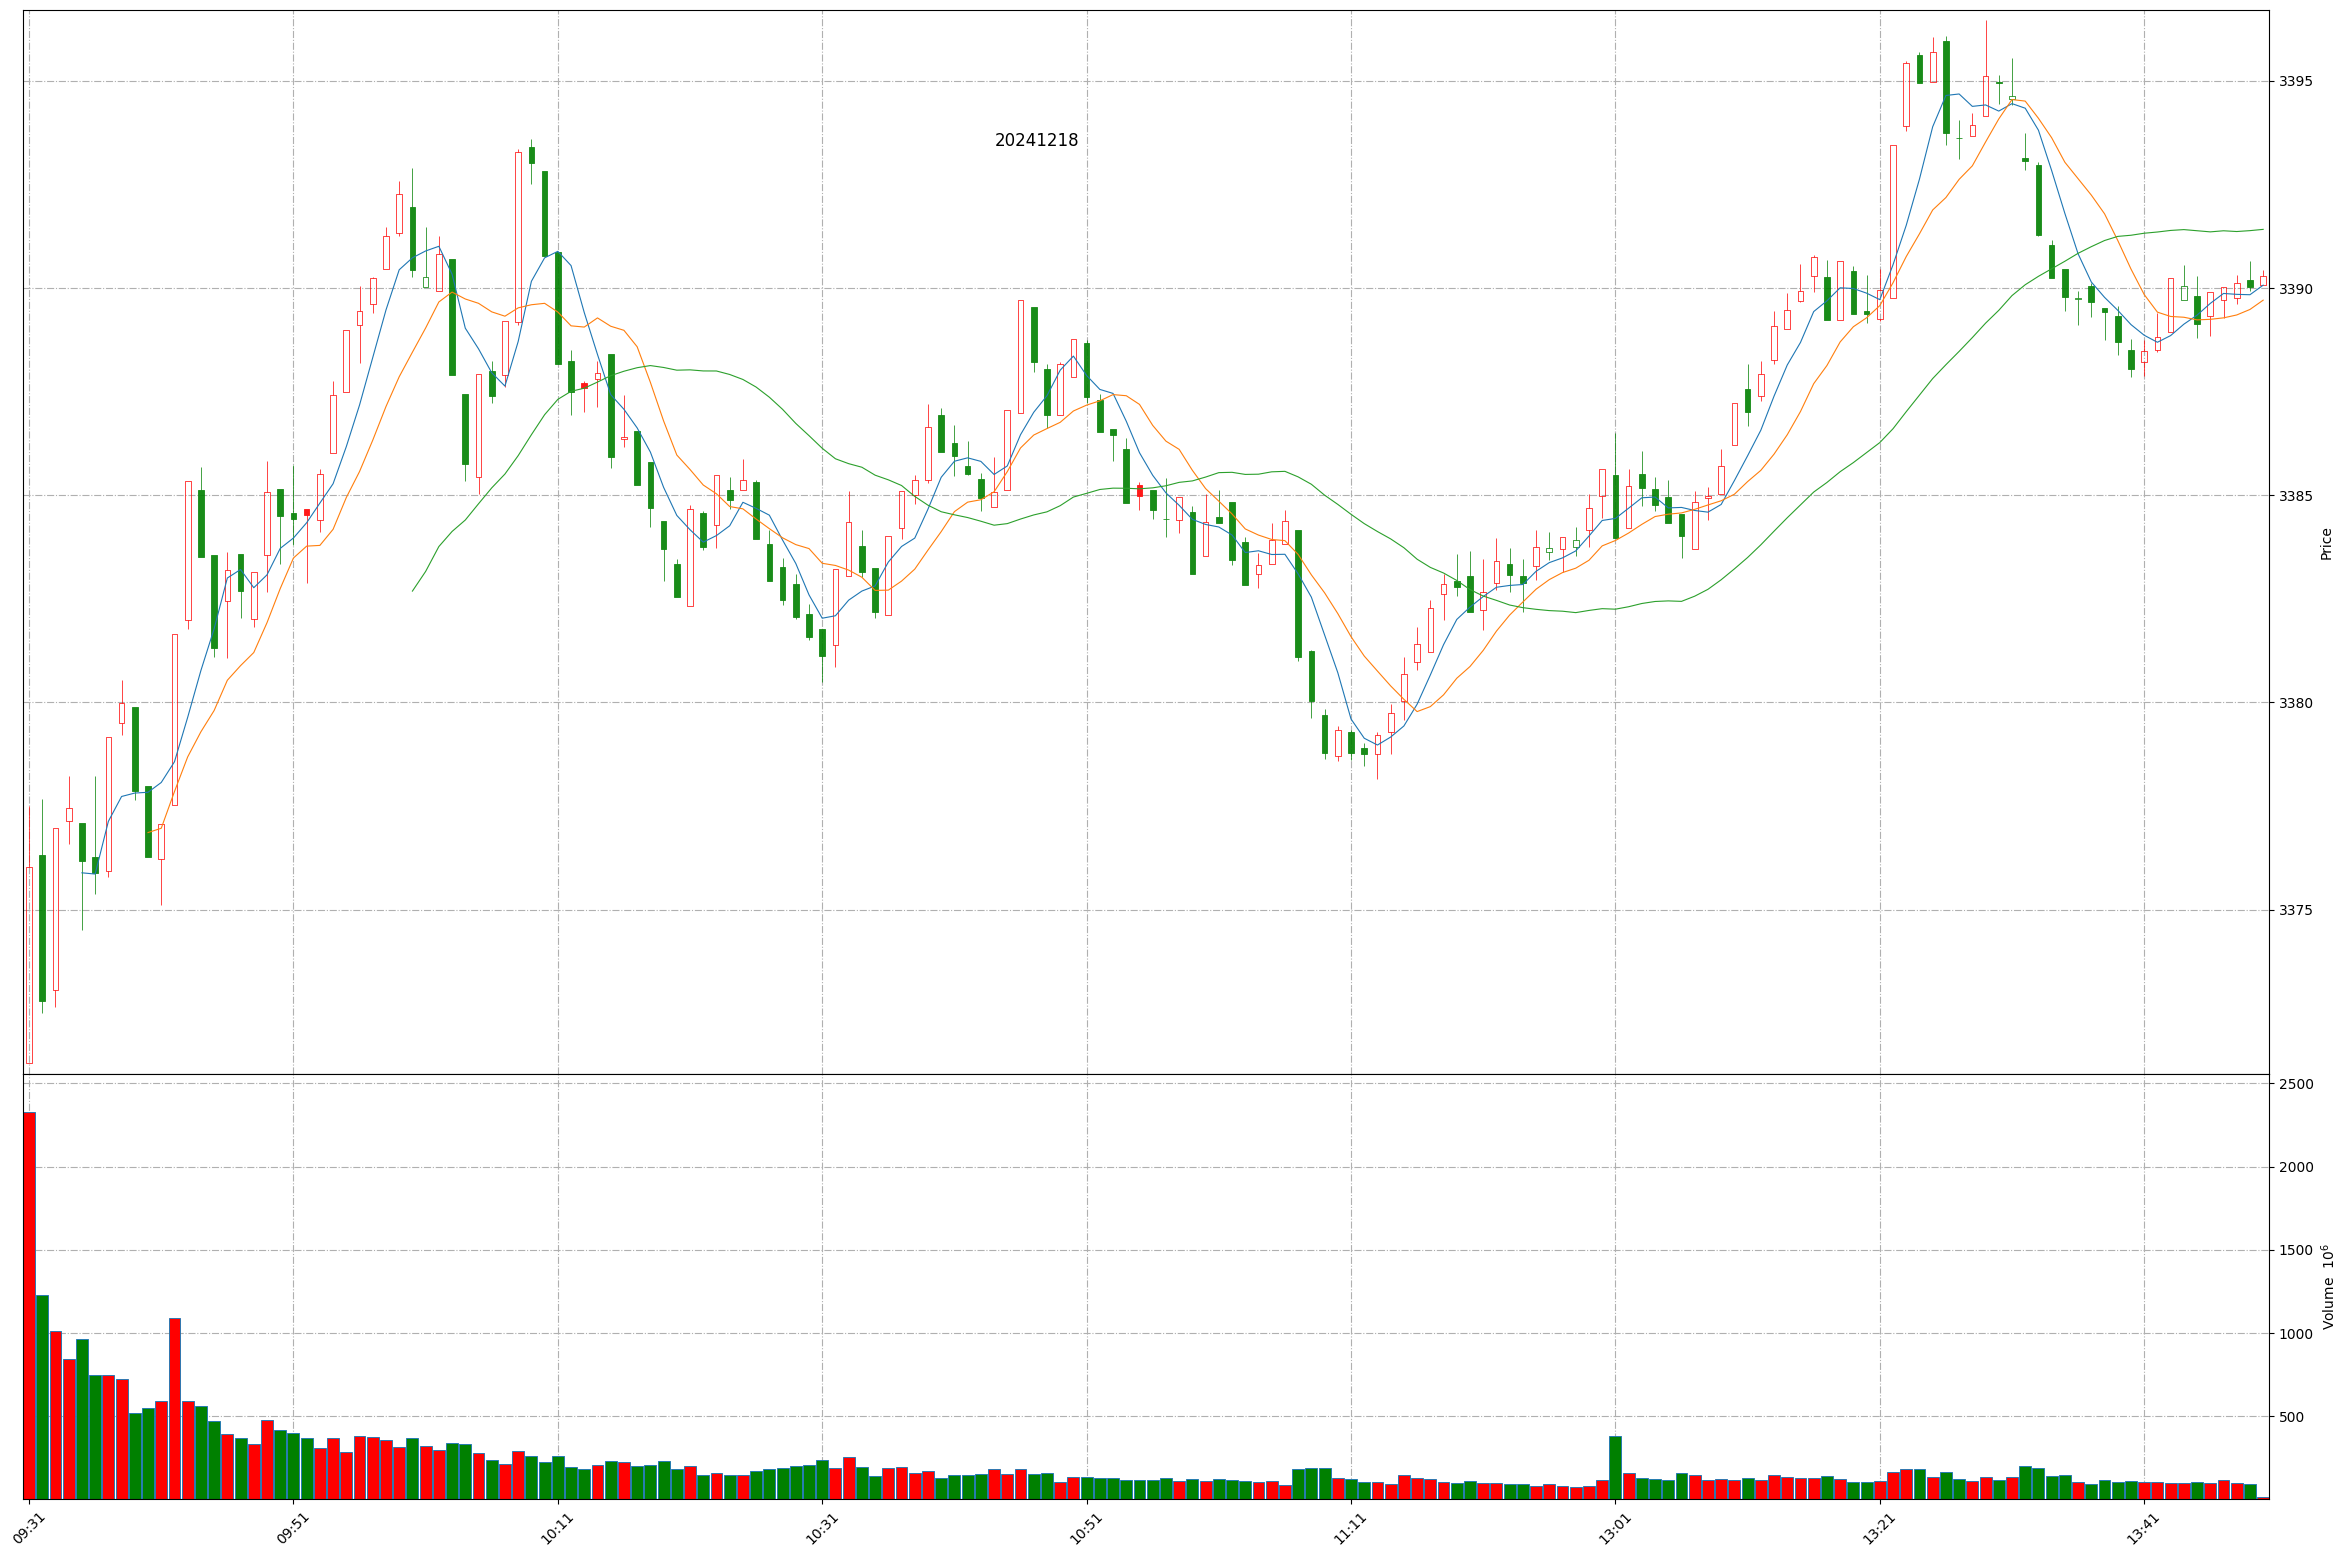
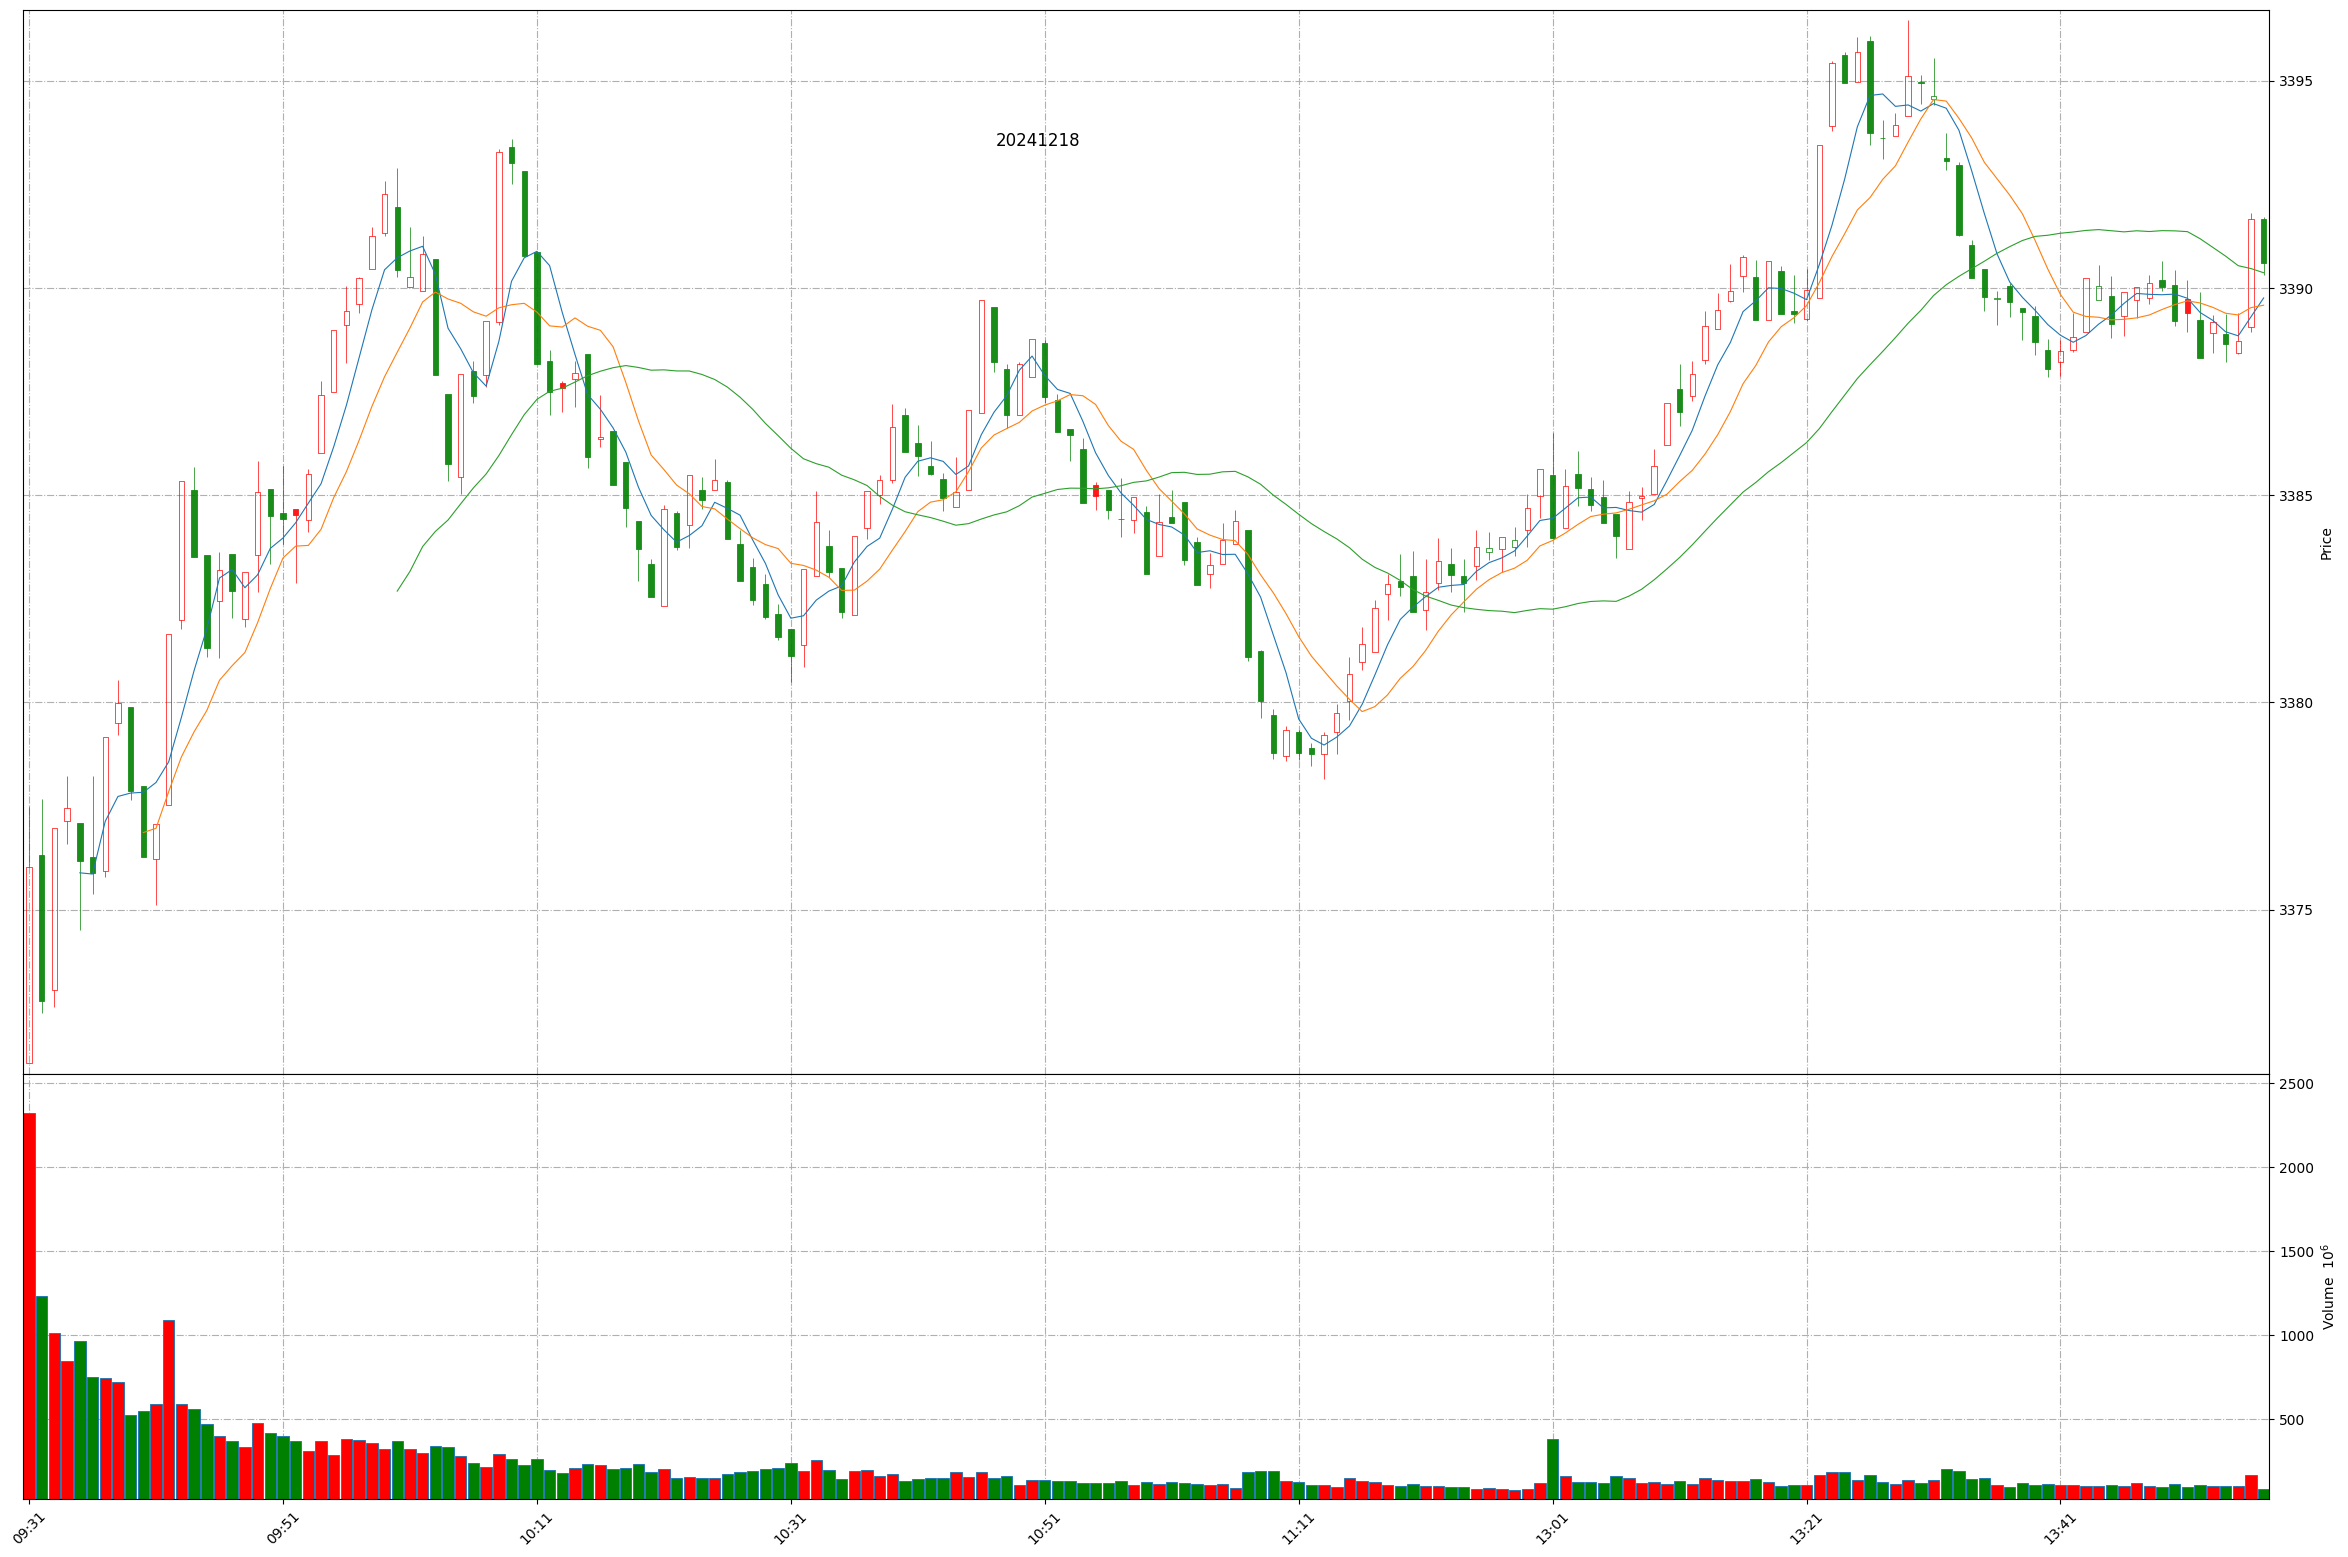
Github action update at 2024-12-18 13:56:50.

diff --git a/README.md b/README.md
@@ -1,11 +1,11 @@
 
 # Daily-A-share-market-quotes 每日 A 股指数（5min 更新）- 20241218
 
-### 上证指数 20241218 13:49
+### 上证指数 20241218 13:56
 ![](./fig/2024/12/20241218-sh000001.png)
 
-### 深证成指 20241218 13:49
+### 深证成指 20241218 13:56
 ![](./fig/2024/12/20241218-sz399001.png)
 
-### 北证50 20241218 13:49
+### 北证50 20241218 13:56
 ![](./fig/2024/12/20241218-bj899050.png)
